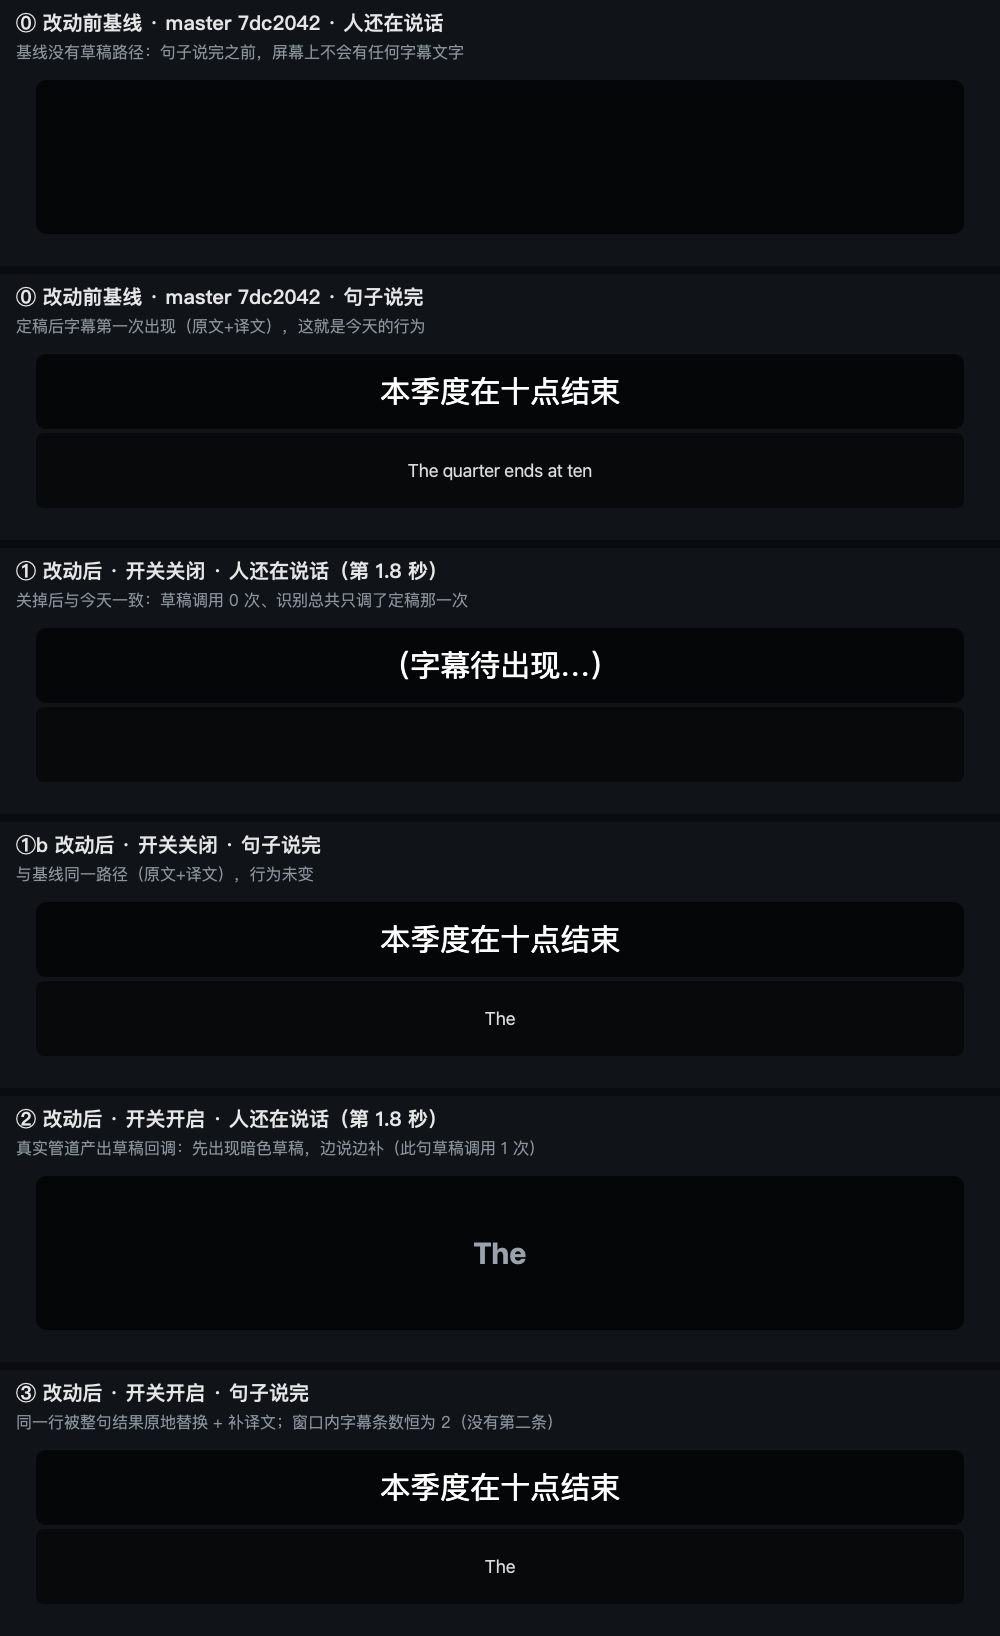
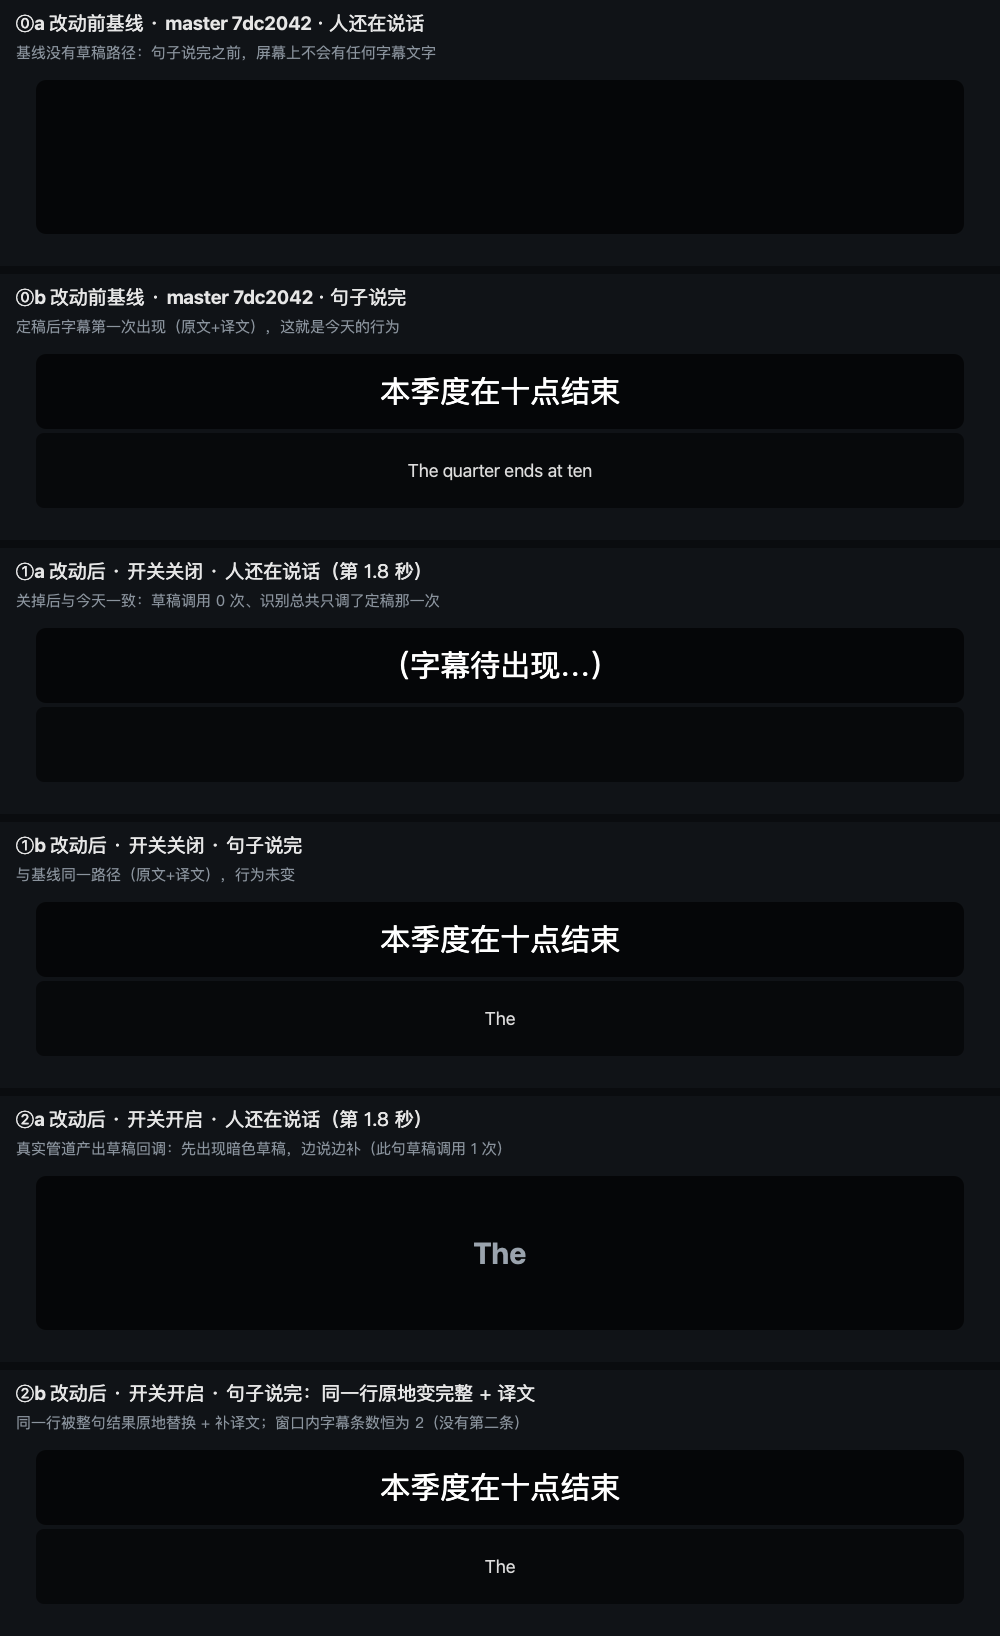
docs(#10): 视觉证据补齐可读性：应用默认字体（offscreen 写死字体名会变豆腐块）、编号统一、基线设置面板同参数重截
- compare_subtitles_v2.png：⓪a/⓪b 基线 7dc2042、①a/①b 改动后开关关闭、②a/②b 改动后开关开启，
  六格同一 960x170 窗口、同一合成音频、同一深色主题，跑的是真实管道与真实字幕窗。
- compare_settings_v2.png：④ 基线面板、⑤ 勾选（默认开）、⑥ 取消勾选，三格同一对话框尺寸与字体。
- 附带可复现脚本 tools/*.py 与 README 复现命令。

diff --git a/docs/qa/issue-17/tools/cap_head.py b/docs/qa/issue-17/tools/cap_head.py
@@ -3,7 +3,7 @@
 import sys
 
 import numpy as np
-from PySide6.QtGui import QColor, QFont, QPainter, QPixmap  # noqa: E402
+from PySide6.QtGui import QColor, QPainter, QPixmap  # noqa: E402
 from PySide6.QtWidgets import QApplication  # noqa: E402
 
 sys.path.insert(0, __import__("os").path.abspath(__file__).rsplit("/docs/", 1)[0])
@@ -12,6 +12,22 @@ from app.pipeline.segmenter import DraftConfig  # noqa: E402
 from app.ui.subtitle_window import SubtitleWindow  # noqa: E402
 
 OUT = __import__("os").environ.get("LC_OUT", "/tmp/lcd")
+
+
+def title_font(a):
+    """用应用默认字体（offscreen 下写死字体名会变豆腐块）。"""
+    f = a.font()
+    f.setPointSize(14)
+    f.setBold(True)
+    return f
+
+
+def sub_font(a):
+    f = a.font()
+    f.setPointSize(11)
+    return f
+
+
 app = QApplication(sys.argv)
 SR, BLOCK = 16000, 160
 # 同一段输入：连续说 2.4s → 顿 0.2s → 再说 1.0s → 句尾静音 0.4s
@@ -42,9 +58,9 @@ def panel(shot, title, sub, path):
     p.fill(QColor("#101317"))
     g = QPainter(p)
     g.setPen(QColor("#e6e6e6"))
-    g.setFont(QFont("PingFang SC", 15, QFont.Weight.Bold))
+    g.setFont(title_font(app))
     g.drawText(16, 30, title)
-    g.setFont(QFont("PingFang SC", 12))
+    g.setFont(sub_font(app))
     g.setPen(QColor("#8b949e"))
     g.drawText(16, 58, sub)
     g.drawPixmap(20, 72, shot)
@@ -81,7 +97,7 @@ on = drive(True, {180})
 g = on[180][0]
 panel(
     g,
-    "② 改动后 · 开关开启 · 人还在说话（第 1.8 秒）",
+    "②a 改动后 · 开关开启 · 人还在说话（第 1.8 秒）",
     f"真实管道产出草稿回调：先出现暗色草稿，边说边补（此句草稿调用 {on[180][1]} 次）",
     f"{OUT}/p_head_draft.png",
 )
@@ -89,7 +105,7 @@ panel(
 f = on[-1][0]
 panel(
     f,
-    "③ 改动后 · 开关开启 · 句子说完",
+    "②b 改动后 · 开关开启 · 句子说完：同一行原地变完整 + 译文",
     f"同一行被整句结果原地替换 + 补译文；窗口内字幕条数恒为 {on[-1][3]}（没有第二条）",
     f"{OUT}/p_head_final.png",
 )
@@ -97,7 +113,7 @@ panel(
 off = drive(False, {180})
 panel(
     off[180][0],
-    "① 改动后 · 开关关闭 · 人还在说话（第 1.8 秒）",
+    "①a 改动后 · 开关关闭 · 人还在说话（第 1.8 秒）",
     f"关掉后与今天一致：草稿调用 {off[-1][1]} 次、识别总共只调了定稿那一次",
     f"{OUT}/p_head_off.png",
 )

diff --git a/docs/qa/issue-17/tools/cap_settings.py b/docs/qa/issue-17/tools/cap_settings.py
@@ -2,12 +2,29 @@
 
 import sys
 
-from PySide6.QtGui import QColor, QFont, QPainter, QPixmap  # noqa: E402
+from PySide6.QtGui import QColor, QPainter, QPixmap  # noqa: E402
 from PySide6.QtWidgets import QApplication  # noqa: E402
 
 sys.path.insert(0, "/Users/gaotingkai/.dsh/state/superagent/work/draft-subtitles-a8f0014ff6ef")
 from app.ui.subtitle_settings import SubtitleSettingsDialog  # noqa: E402
 from app.ui.subtitle_window import SubtitleWindow  # noqa: E402
+
+OUT = __import__("os").environ.get("LC_OUT", "/tmp/lcd")
+
+
+def title_font(a):
+    """用应用默认字体（offscreen 下写死字体名会变豆腐块）。"""
+    f = a.font()
+    f.setPointSize(14)
+    f.setBold(True)
+    return f
+
+
+def sub_font(a):
+    f = a.font()
+    f.setPointSize(11)
+    return f
+
 
 app = QApplication(sys.argv)
 changes: list[bool] = []
@@ -15,8 +32,8 @@ win = SubtitleWindow()
 win.resize(960, 170)
 
 for checked, title, path in (
-    (True, "⑤ 字幕设置面板 · 改动后 head 44f9d2d（默认勾选 = 开启）", "/tmp/lcd/p_set_on.png"),
-    (False, "⑥ 字幕设置面板 · 改动后 head 44f9d2d（取消勾选 = 关闭）", "/tmp/lcd/p_set_off.png"),
+    (True, "⑤ 字幕设置面板 · 改动后 head 44f9d2d（默认勾选 = 开启）", f"{OUT}/p_set_on.png"),
+    (False, "⑥ 字幕设置面板 · 改动后 head 44f9d2d（取消勾选 = 关闭）", f"{OUT}/p_set_off.png"),
 ):
     dlg = SubtitleSettingsDialog(
         win, draft_enabled=checked, on_draft_change=lambda v: changes.append(v)
@@ -29,9 +46,9 @@ for checked, title, path in (
     p.fill(QColor("#101317"))
     g = QPainter(p)
     g.setPen(QColor("#e6e6e6"))
-    g.setFont(QFont("PingFang SC", 15, QFont.Weight.Bold))
+    g.setFont(title_font(app))
     g.drawText(12, 30, title)
-    g.setFont(QFont("PingFang SC", 12))
+    g.setFont(sub_font(app))
     g.setPen(QColor("#8b949e"))
     g.drawText(12, 58, f"真实控件截图 · 勾选状态 = {dlg._draft_check.isChecked()}")
     g.drawPixmap(12, 72, shot)

diff --git a/docs/qa/issue-17/tools/cap_base.py b/docs/qa/issue-17/tools/cap_base.py
@@ -3,12 +3,28 @@
 import sys
 
 sys.path.insert(0, __import__("os").environ.get("LC_BASELINE_TREE", "/tmp/lcd/baseline"))
-from PySide6.QtGui import QColor, QFont, QPainter, QPixmap  # noqa: E402
+from PySide6.QtGui import QColor, QPainter, QPixmap  # noqa: E402
 from PySide6.QtWidgets import QApplication  # noqa: E402
 
 from app.ui.subtitle_window import SubtitleWindow  # noqa: E402
 
 OUT = __import__("os").environ.get("LC_OUT", "/tmp/lcd")
+
+
+def title_font(a):
+    """用应用默认字体（offscreen 下写死字体名会变豆腐块）。"""
+    f = a.font()
+    f.setPointSize(14)
+    f.setBold(True)
+    return f
+
+
+def sub_font(a):
+    f = a.font()
+    f.setPointSize(11)
+    return f
+
+
 app = QApplication(sys.argv)
 
 
@@ -18,9 +34,9 @@ def panel(win, title, sub, path):
     p.fill(QColor("#101317"))
     g = QPainter(p)
     g.setPen(QColor("#e6e6e6"))
-    g.setFont(QFont("PingFang SC", 15, QFont.Weight.Bold))
+    g.setFont(title_font(app))
     g.drawText(16, 30, title)
-    g.setFont(QFont("PingFang SC", 12))
+    g.setFont(sub_font(app))
     g.setPen(QColor("#8b949e"))
     g.drawText(16, 58, sub)
     g.drawPixmap(20, 72, shot)
@@ -33,14 +49,14 @@ w.resize(960, 170)
 w.show_text("", "")  # 基线签名：只有 (原文, 译文)
 panel(
     w,
-    "⓪ 改动前基线 · master 7dc2042 · 人还在说话",
+    "⓪a 改动前基线 · master 7dc2042 · 人还在说话",
     "基线没有草稿路径：句子说完之前，屏幕上不会有任何字幕文字",
     f"{OUT}/p_base_mid.png",
 )
 w.show_text("The quarter ends at ten", "本季度在十点结束")
 panel(
     w,
-    "⓪ 改动前基线 · master 7dc2042 · 句子说完",
+    "⓪b 改动前基线 · master 7dc2042 · 句子说完",
     "定稿后字幕第一次出现（原文+译文），这就是今天的行为",
     f"{OUT}/p_base_final.png",
 )

diff --git a/docs/qa/issue-17/tools/cap_settings_base.py b/docs/qa/issue-17/tools/cap_settings_base.py
@@ -1,0 +1,49 @@
+"""基线（master 7dc2042）字幕设置面板真实捕获——与改动后同一套字体/尺寸。"""
+
+import os
+import sys
+
+from PySide6.QtGui import QColor, QPainter, QPixmap  # noqa: E402
+from PySide6.QtWidgets import QApplication  # noqa: E402
+
+sys.path.insert(0, os.environ.get("LC_BASELINE_TREE", "/tmp/lcd/baseline"))
+from app.ui.subtitle_settings import SubtitleSettingsDialog  # noqa: E402
+from app.ui.subtitle_window import SubtitleWindow  # noqa: E402
+
+OUT = os.environ.get("LC_OUT", "/tmp/lcd")
+app = QApplication(sys.argv)
+
+
+def title_font(a):
+    f = a.font()
+    f.setPointSize(14)
+    f.setBold(True)
+    return f
+
+
+def sub_font(a):
+    f = a.font()
+    f.setPointSize(11)
+    return f
+
+
+win = SubtitleWindow()
+win.resize(960, 170)
+dlg = SubtitleSettingsDialog(win)
+dlg.resize(460, dlg.sizeHint().height() + 10)
+dlg.show()
+QApplication.processEvents()
+shot = dlg.grab()
+p = QPixmap(max(500, shot.width() + 24), shot.height() + 92)
+p.fill(QColor("#101317"))
+g = QPainter(p)
+g.setPen(QColor("#e6e6e6"))
+g.setFont(title_font(app))
+g.drawText(12, 30, "④ 字幕设置面板 · 改动前基线 master 7dc2042")
+g.setFont(sub_font(app))
+g.setPen(QColor("#8b949e"))
+g.drawText(12, 58, "基线只有字号 / 透明度 / 位置重置，没有「边说边出」开关")
+g.drawPixmap(12, 72, shot)
+g.end()
+p.save(f"{OUT}/p_set_base.png")
+print("baseline settings panel ok")

diff --git a/docs/qa/issue-17/tools/cap_sheet.py b/docs/qa/issue-17/tools/cap_sheet.py
@@ -35,6 +35,6 @@ sub = [
 w = max(QImage(p).width() for p in sub)
 stack(sub, f"{REPO}/docs/qa/issue-17/compare_subtitles_v2.png", w)
 
-sets = [f"{OUT}/before_settings.png", f"{OUT}/p_set_on.png", f"{OUT}/p_set_off.png"]
+sets = [f"{OUT}/p_set_base.png", f"{OUT}/p_set_on.png", f"{OUT}/p_set_off.png"]
 w2 = max(QImage(p).width() for p in sets)
 stack(sets, f"{REPO}/docs/qa/issue-17/compare_settings_v2.png", w2)

diff --git a/docs/qa/issue-17/README.md b/docs/qa/issue-17/README.md
@@ -2,7 +2,7 @@
 
 - `compare_subtitles_v2.png` — 同一场景六格：基线（master 7dc2042）说话期间 / 说完；
   改动后（head 44f9d2d）**开关关闭**说话期间 / 说完；**开关开启**说话期间（暗色草稿）/ 说完（同一行原地替换）。
-- `compare_settings_v2.png` — 字幕设置面板三格：基线（无开关）、改动后默认勾选、取消勾选。
+- `compare_settings_v2.png` — 字幕设置面板三格：④ 基线（master 7dc2042，无该开关）、⑤ 改动后默认勾选（开启）、⑥ 改动后取消勾选（关闭）。标题用应用默认字体，offscreen 下不写死字体名（会渲染成豆腐块）。
 - `compare_subtitles.png` / `compare_settings.png` — 第一次交付的两格版本（保留）。
 
 视口/主题/UI 状态：同一 `SubtitleWindow`（960×170，深色底）、同一 `SubtitleSettingsDialog`、
@@ -13,6 +13,7 @@
 ```
 git archive 7dc2042 | tar -x -C /tmp/lcd/baseline   # 基线代码树
 LC_BASELINE_TREE=/tmp/lcd/baseline LC_OUT=/tmp/lcd QT_QPA_PLATFORM=offscreen python docs/qa/issue-17/tools/cap_base.py
+LC_BASELINE_TREE=/tmp/lcd/baseline LC_OUT=/tmp/lcd QT_QPA_PLATFORM=offscreen python docs/qa/issue-17/tools/cap_settings_base.py
 LC_OUT=/tmp/lcd QT_QPA_PLATFORM=offscreen python docs/qa/issue-17/tools/cap_head.py
 LC_OUT=/tmp/lcd QT_QPA_PLATFORM=offscreen python docs/qa/issue-17/tools/cap_settings.py
 LC_OUT=/tmp/lcd QT_QPA_PLATFORM=offscreen python docs/qa/issue-17/tools/cap_sheet.py
